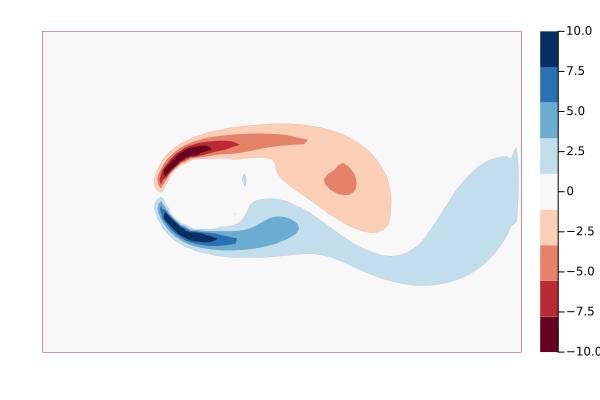
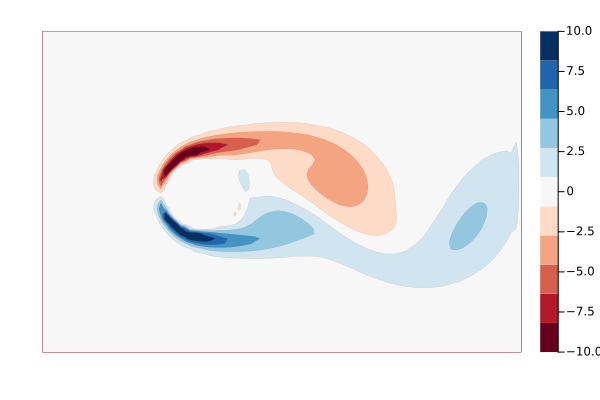
Update README example
And add a file to make the README assets.

diff --git a/README.md b/README.md
@@ -82,8 +82,8 @@ time = 1:0.1:50 # time scale is sim.L/sim.U
 forces = [get_forces!(circ,t) for t in time];
 
 #Plot it
-plot(time,[first.(forces), last.(forces)],
-    labels=permutedims(["drag","lift"]),
+plot(time,[first.(forces) last.(forces)],
+    labels=["drag" "lift"],
     xlabel="tU/L",
     ylabel="Pressure force coefficients")
 ```
@@ -96,14 +96,12 @@ We can also plot the vorticity field instead of the u-velocity to see a snap-sho
 ω = zeros(size(u));
 @inside ω[I] = WaterLily.curl(3,I,circ.flow.u)*circ.L/circ.U
 
-# Plot it
-clims = (-6,6)
-contourf(clamp.(ω,clims...)'; clims,
-    color=palette(:RdBu,9),linewidth=0,levels=8,
-    aspect_ratio=:equal,border=:none)
+# Plot it using WaterLily's Plots Extension
+flood(ω,clims = (-10,10),border=:none)
 ```
 ![Vorticity field](assets/vort.png)
 
+Note that `flood` is a convience function within WaterLily to create 2D flood plots. 
 As you can see, WaterLily correctly predicts that the flow is unsteady, with an alternating vortex street wake, leading to an oscillating side force and drag force.
 
 ## Multi-threading and GPU backends
